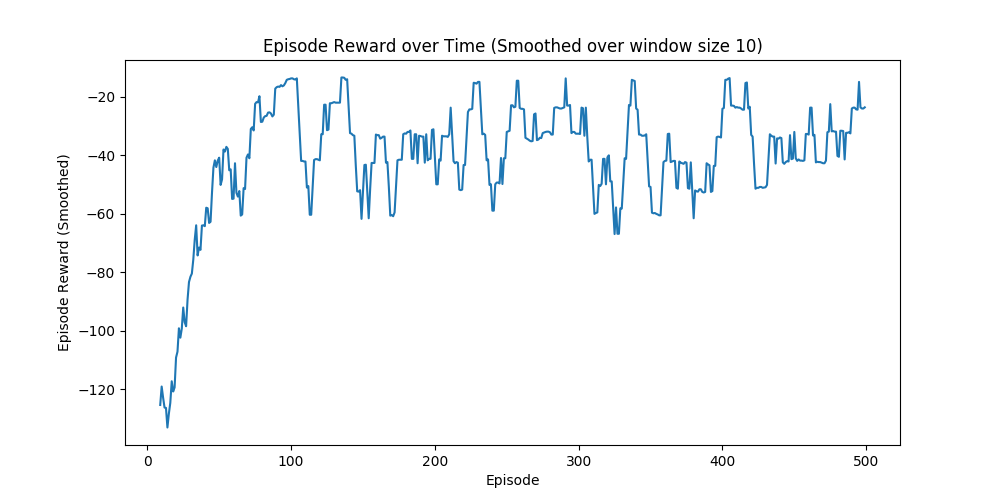
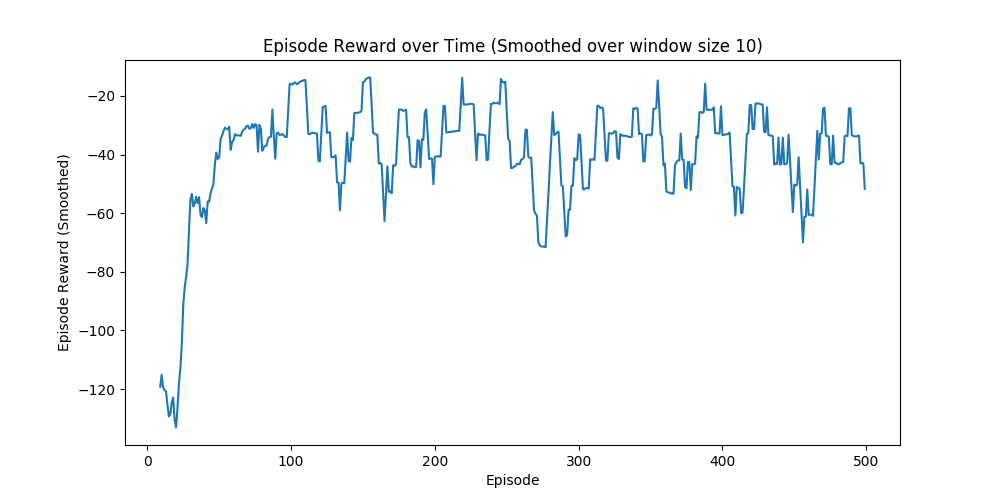
Exercise 04 Solutions

diff --git a/exercise-04/scripts/off_policy_mc.py b/exercise-04/scripts/off_policy_mc.py
@@ -82,7 +82,7 @@ def mc_control_importance_sampling(env, num_episodes, behavior_policy, discount_
 		# and a binary return for whether the player could use an ace as 10 or 1
 		state = env.reset()
 		# There are 200 possible states, so we thought we can limit the actions in one episode to 200. It can take less or more.
-		while (i <= 200):
+		while (1):
 			# After folling the given sample policy we find the action that we should take
 			probabilities = behavior_policy(state)
 			action=np.random.choice(np.arange(len(probabilities)), p=probabilities)
